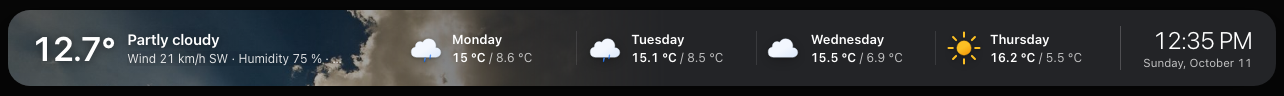
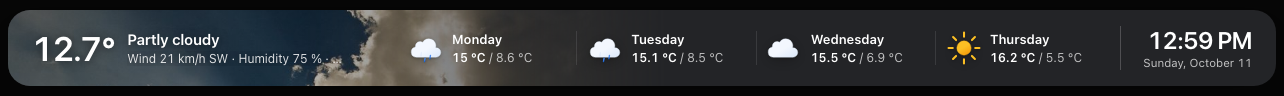
Bolder clock, drop the 'Details in HA' button from the detail
The clock in the bar is now semibold so it stands out. The detail footer
only shows the data attribution; HA's more-info dialog stays available
via detail: false.

Claude-Session: https://claude.ai/code/session_019ThApQ2tKJgD9eD85h28gY

Changed region(s): [[0.8723, 0.3125, 0.9969, 0.5312]]

diff --git a/dist/weather-bar-card.js b/dist/weather-bar-card.js
@@ -10,7 +10,7 @@
  * https://github.com/eMalinos/weather-bar-card
  */
 
-const VERSION = '1.0.0';
+const VERSION = '1.1.0';
 
 // Folder of this module, e.g. /hacsfiles/weather-bar-card/ — photos and icons sit next to it.
 const ASSET_BASE = new URL('./', import.meta.url).href;
@@ -181,7 +181,7 @@ export function particles(fx, compact) {
 const DETAIL_I18N = {
   cs: {
     updated: 'aktualizováno', hourly: 'Hodinová předpověď · 24 h', days: 'Předpověď na {n} dní', now: 'Teď',
-    max: 'Max', min: 'Min', precipToday: 'srážek', noPrecip: 'bez srážek', close: 'Zavřít', more: 'Podrobnosti v HA',
+    max: 'Max', min: 'Min', precipToday: 'srážek', noPrecip: 'bez srážek', close: 'Zavřít',
     wind: 'Vítr', from: 'od', humidity: 'Vlhkost', dew: 'rosný bod', pressure: 'Tlak', uv: 'UV index', uvMax: 'max',
     cloud: 'Oblačnost', sun: 'Slunce', sunset: 'západ', sunrise: 'východ', data: 'Data',
     windLv: ['bezvětří', 'slabý', 'mírný', 'čerstvý', 'silný', 'bouřlivý'],
@@ -191,7 +191,7 @@ const DETAIL_I18N = {
   },
   en: {
     updated: 'updated', hourly: 'Hourly forecast · 24 h', days: '{n}-day forecast', now: 'Now',
-    max: 'High', min: 'Low', precipToday: 'precipitation', noPrecip: 'no precipitation', close: 'Close', more: 'Details in HA',
+    max: 'High', min: 'Low', precipToday: 'precipitation', noPrecip: 'no precipitation', close: 'Close',
     wind: 'Wind', from: 'from', humidity: 'Humidity', dew: 'dew point', pressure: 'Pressure', uv: 'UV index', uvMax: 'max',
     cloud: 'Cloud cover', sun: 'Sun', sunset: 'sunset', sunrise: 'sunrise', data: 'Data',
     windLv: ['calm', 'light', 'moderate', 'fresh', 'strong', 'gale'],
@@ -284,7 +284,7 @@ const DETAIL_STYLE = `
 .close { margin-left: auto; width: 36px; height: 36px; flex: none; border: 0; border-radius: 18px; padding: 0; cursor: pointer; color: #fff;
   background: rgba(0,0,0,.32); backdrop-filter: blur(12px); -webkit-backdrop-filter: blur(12px); display: flex; align-items: center; justify-content: center; }
 .close:hover { background: rgba(0,0,0,.5); }
-.close:focus-visible, .more:focus-visible { outline: 2px solid #FF9A4D; outline-offset: 2px; }
+.close:focus-visible { outline: 2px solid #FF9A4D; outline-offset: 2px; }
 .big { margin-top: auto; display: flex; flex-direction: column; gap: 6px; min-width: 0; }
 .bt { font-size: var(--d-temp); font-weight: 200; line-height: .9; letter-spacing: -.045em; }
 .bl { font-size: 19px; font-weight: 600; letter-spacing: -.01em; }
@@ -352,9 +352,7 @@ const DETAIL_STYLE = `
 .sheet .dt b { font-size: 20px; letter-spacing: -.02em; }
 .sheet .dt span { font-size: 14px; }
 
-.foot { display: flex; align-items: center; gap: 12px; font-size: 11.5px; color: var(--d-fg2); padding: 2px 4px; }
-.foot span { min-width: 0; overflow: hidden; text-overflow: ellipsis; white-space: nowrap; }
-.more { margin-left: auto; flex: none; border: 0; background: none; padding: 6px; cursor: pointer; font: inherit; font-weight: 600; color: var(--d-link); }
+.foot { font-size: 11.5px; color: var(--d-fg2); padding: 2px 4px; overflow: hidden; text-overflow: ellipsis; white-space: nowrap; }
 `;
 
 const DROP = '<svg width="11" height="11" viewBox="0 0 24 24" fill="currentColor" aria-hidden="true"><path d="M12 2.5s7 7.6 7 12.7a7 7 0 0 1-14 0C5 10.1 12 2.5 12 2.5z"/></svg>';
@@ -363,14 +361,14 @@ const DETAIL_THEME = {
   dark: {
     '--d-surface': '#1C1C1E', '--d-fg': '#F5F5F7', '--d-fg2': 'rgba(235,235,245,.62)', '--d-tile': 'linear-gradient(165deg, rgba(62,62,66,.55), rgba(36,36,38,.7))',
     '--d-tile-solid': '#2C2C2E', '--d-tile-sh': 'inset 0 1px 0 rgba(255,255,255,.1)', '--d-track': 'rgba(255,255,255,.12)', '--d-dot': '#2C2C2E',
-    '--d-blue': '#64D2FF', '--d-link': '#FF9A4D', '--d-marker': '#FFFFFF', '--d-day-sh': '0 12px 28px -16px rgba(0,0,0,.7)',
+    '--d-blue': '#64D2FF', '--d-marker': '#FFFFFF', '--d-day-sh': '0 12px 28px -16px rgba(0,0,0,.7)',
     '--d-scrim': 'rgba(0,0,0,.55)', '--d-ring': 'rgba(255,255,255,.08)', '--d-mask': 'linear-gradient(180deg, #000 0%, #000 52%, rgba(0,0,0,.5) 78%, transparent 100%)',
     '--d-hero-scrim': 'linear-gradient(180deg, rgba(0,0,0,.42) 0%, rgba(0,0,0,.12) 40%, rgba(0,0,0,.28) 70%, transparent 100%)',
   },
   light: {
     '--d-surface': '#F2F2F7', '--d-fg': '#1C1C1E', '--d-fg2': 'rgba(60,60,67,.7)', '--d-tile': '#FFFFFF',
     '--d-tile-solid': '#FFFFFF', '--d-tile-sh': '0 1px 2px rgba(0,0,0,.04), 0 8px 24px -14px rgba(0,0,0,.18)', '--d-track': 'rgba(0,0,0,.08)', '--d-dot': '#FFFFFF',
-    '--d-blue': '#0062CC', '--d-link': '#C2410C', '--d-marker': '#1C1C1E', '--d-day-sh': '0 10px 24px -16px rgba(0,0,0,.4)',
+    '--d-blue': '#0062CC', '--d-marker': '#1C1C1E', '--d-day-sh': '0 10px 24px -16px rgba(0,0,0,.4)',
     '--d-scrim': 'rgba(30,30,35,.32)', '--d-ring': 'rgba(0,0,0,.06)',
     // Light surface: photo stays solid under the white text and fades out in small steps below it.
     '--d-mask': 'linear-gradient(180deg, #000 0%, #000 60%, rgba(0,0,0,.92) 66%, rgba(0,0,0,.78) 72%, rgba(0,0,0,.58) 78%, rgba(0,0,0,.38) 84%, rgba(0,0,0,.2) 90%, rgba(0,0,0,.07) 96%, transparent 100%)',
@@ -420,7 +418,7 @@ ha-card { position: relative; overflow: hidden; border: none; color: var(--wb-fg
 /* forecast day lying on the photo (light surface): light text */
 .day.lt { --wb-fg: #FFFFFF; --wb-fg2: rgba(255,255,255,.86); color: #FFFFFF; text-shadow: 0 1px 2px rgba(0,0,0,.7), 0 1px 10px rgba(0,0,0,.65); border-right-color: rgba(255,255,255,.18); }
 .clock { flex: none; padding-left: 22px; border-left: 1px solid var(--wb-line); height: 44px; display: flex; flex-direction: column; justify-content: center; align-items: flex-end; }
-.time { font-weight: 300; font-size: 24px; line-height: 1; letter-spacing: -.02em; }
+.time { font-weight: 600; font-size: 24px; line-height: 1; letter-spacing: -.02em; }
 .date { font-size: 11.5px; color: var(--wb-fg2); margin-top: 4px; white-space: nowrap; }
 .hidden { display: none !important; }
 
@@ -756,7 +754,6 @@ class WeatherBarCard extends (globalThis.HTMLElement ?? class {}) {
     host.attachShadow({ mode: 'open' });
     host.shadowRoot.addEventListener('click', (e) => {
       if (e.target.closest('.close') || e.target.classList.contains('scrim')) this._closeDetail();
-      else if (e.target.closest('.more')) { this._closeDetail(); this._moreInfo(); }
     });
     this._onKey = (e) => {
       if (e.key === 'Escape') this._closeDetail();
@@ -956,7 +953,7 @@ class WeatherBarCard extends (globalThis.HTMLElement ?? class {}) {
     modal.setAttribute('aria-label', this._condText(st.state));
     modal.innerHTML = `${sheet ? '<div class="grab"><i></i></div>' : ''}${hero}
       <div class="body">${hourly}${tilesHtml}${daysHtml}
-        <div class="foot"><span>${a.attribution ? `${T.data}: ${esc(a.attribution)}` : ''}</span><button class="more">${T.more}</button></div>
+        ${a.attribution ? `<div class="foot">${T.data}: ${esc(a.attribution)}</div>` : ''}
       </div>`;
     if (prev.left && root.querySelector('.scroll')) root.querySelector('.scroll').scrollLeft = prev.left;
     if (prev.focus) root.querySelector(`.${prev.focus.split(' ')[0]}`)?.focus({ preventScroll: true });

diff --git a/README.md b/README.md
@@ -52,7 +52,7 @@ Once the card is accepted into the HACS default store, steps 1–2 won't be need
 1. Download the `dist/` folder from the [latest release](https://github.com/eMalinos/weather-bar-card/releases).
 2. Copy **all** of its files to `/config/www/weather-bar-card/`. The photos and icons must be next to `weather-bar-card.js`.
 3. Settings → Dashboards → ⋮ → **Resources** → **Add resource**:
-   - URL: `/local/weather-bar-card/weather-bar-card.js?v=1.0.0`
+   - URL: `/local/weather-bar-card/weather-bar-card.js?v=1.1.0`
    - Type: **JavaScript module**
 4. Hard-reload the browser. In the companion app use Settings → Companion app → Debugging → Reset frontend cache.
 
